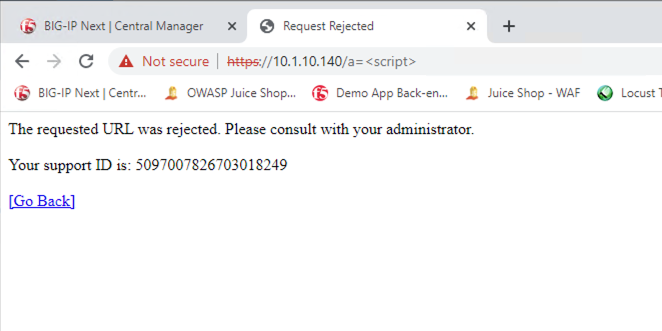
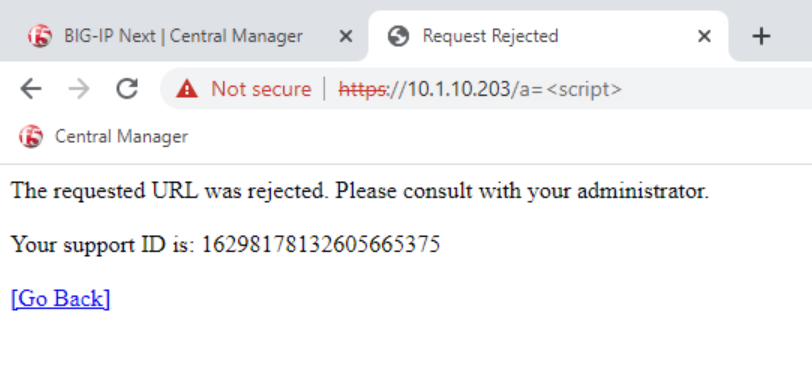
fixes

diff --git a/docs/class1/module5/lab1.rst b/docs/class1/module5/lab1.rst
@@ -55,7 +55,7 @@ Deploy a HTTPS load balancer with a WAF policy
 
 **5. Enter the following values in the template wizard for Properties as shown in the picture below and click "Next"**
    
- * Location: Choose e.g. big-ip-next-03.f5demo.com
+ * Location: Choose e.g. big-ip-next-01.f5demo.com
  * Application Name: waf-app
  * Virtual Address: 10.1.10.203
  * Virtual Port: 443 
@@ -73,11 +73,13 @@ Deploy a HTTPS load balancer with a WAF policy
 
 **7. Select Security**
 
- 1. Choose the certificate "self_demo.f5.com"
+ 1. Toggle on "Enable HTTPS (TLS Server)"
+ 2. Choose the certificate "self_demo.f5.com"
 
  .. image:: ./pictures/choose_cert.png
 
- 2. Click "+ Create" and enter the new policy name "waf-policy" in the new window as shown in the picture below.
+ 3. Toggle on "Use a WAF Policy"
+ 4. Click "+ Create" and enter the new policy name "waf-policy" in the new window as shown in the picture below.
    
 
  .. image:: ./pictures/create_application_create_policy.png
@@ -86,13 +88,12 @@ Deploy a HTTPS load balancer with a WAF policy
 
  |
 
- 3. Create waf-policy using Unified HTTP Template
-
  .. image:: ./pictures/create_application_create_policy.png
 
- 4. Click "Save" and you will get back to the previous screen as shown below.
 
- |
+ 5. Click "Save" and you will get back to the previous screen as shown below.
+
+ 6. Click on "Next" to skip past iRules
    
  **Note:**  Make sure all bullets on the left are marked in green. If not, go back to the section which is not marked in green and check if everything is filled correctly or re-select it in case it is a drop down menu.
 
@@ -148,7 +149,3 @@ Deploy a HTTPS load balancer with a WAF policy
 .. add go to the dashboard and show the violation
 
 
-
-Next: |signup|
-
-.. |signup| raw:: html
